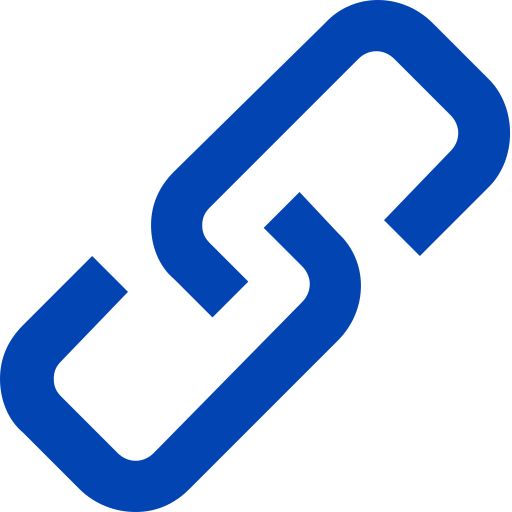
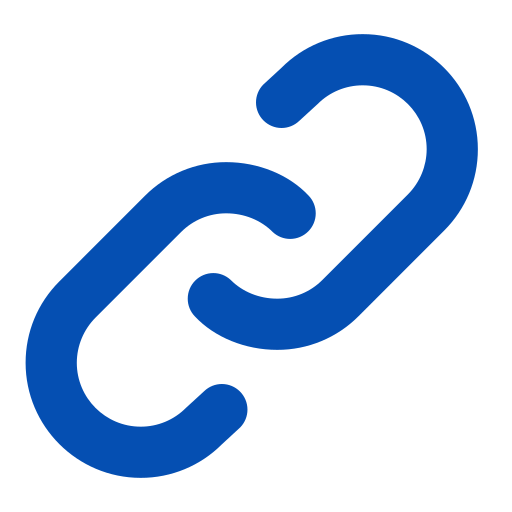
detalhes na implementacao do vincular rfid + adicionar icone de desvincular

diff --git a/gerenciar_controle_ifto/templates/pages/pessoa/listarPessoa.html b/gerenciar_controle_ifto/templates/pages/pessoa/listarPessoa.html
@@ -35,17 +35,20 @@
 
                     <td id="centralize_info">
                             <a href="{% url "editar_Pessoa" pessoa.id%}">
-                                <img src="{% static "images/icones/editar.png" %}" width="16px" alt="">
+                                <img src="{% static "images/icones/editar.png" %}" width="18px" alt="">
                             </a>
                             {% if pessoa.vinculado == False %}
                                 <a href="{% url "vincular_rfid_pessoa" pessoa.id%}">
-                                    <img src="{% static "images/icones/vincular.png" %}" width="16px" alt="">
+                                    <img src="{% static "images/icones/vincular.png" %}" width="18px" alt="">
                                 </a>
                             {% else %}
-                                <img src="" width="16px" alt="">
+                                <img src="" width="18px" alt="">
                             {% endif %}
                             <a href="#">
-                                <img src="{% static "images/icones/excluir.png" %}" width="16px" alt="">
+                                <img src="{% static "images/icones/desvincular.png" %}" width="18px" alt="">
+                            </a>
+                            <a href="#">
+                                <img src="{% static "images/icones/excluir.png" %}" width="18px" alt="">
                             </a>
                     </td>
                 </tr>

diff --git a/gerenciar_controle_ifto/forms.py b/gerenciar_controle_ifto/forms.py
@@ -145,7 +145,7 @@ class EditarCorRfidForm(forms.Form):
 
         if len(corRfid) <=2:
             self.add_error('corRFID',"A cor deve ter mais de 2 caracteres")
-            
+
 class EditarPessoaForm(forms.Form):
     nome = forms.CharField(label="Nome:")
     sobrenome = forms.CharField(label="Sobrenome:")
@@ -223,11 +223,11 @@ class EditarPessoaForm(forms.Form):
 
             if not(cpf_validate.validate(cpf_particionado)):
                 self.add_error('cpf', "CPF informado e invalido")
-                
+
 class VincularPessoaRfid(forms.Form):
-    pessoa= forms.CharField(label="Pessoa:")
+    pessoa= forms.CharField(label="Pessoa:", disabled=True)
     rfid_a_vincular = forms.ModelChoiceField(queryset=Rfid.objects.all(),label="RFID:")
-    
+
     def __init__(self, *args, codCargoID = None ,**kwargs):
         super(VincularPessoaRfid, self).__init__(*args, **kwargs)
 
@@ -238,6 +238,7 @@ class VincularPessoaRfid(forms.Form):
         self.helper.layout = Layout(
             'pessoa',
             'rfid_a_vincular',
+            
             HTML("""<a href="{% url "visualizar_pessoa" %}">
                         <button type='button' class="btn btn-primary", id="botao_voltar">Voltar</button>
                     </a>"""),
@@ -245,9 +246,7 @@ class VincularPessoaRfid(forms.Form):
         )
 
         if codCargoID is not None:
-            print("Is not none :-)")
-            rfid = Rfid.objects.filter(vinculado=False,cod_corRFID_funcao=codCargoID)
-            print("Tem algo: "+str(rfid))
+            rfid = Rfid.objects.filter(cod_corRFID_funcao_id=CorRFID_Funcao.objects.get(cod_cargo_id=codCargoID), vinculado=False)
             self.fields['rfid_a_vincular'].queryset = rfid
             
             

diff --git a/controle_acesso/settings.py b/controle_acesso/settings.py
@@ -81,23 +81,23 @@ WSGI_APPLICATION = 'controle_acesso.wsgi.application'
 # Database
 # https://docs.djangoproject.com/en/5.1/ref/settings/#databases#
 #
-#DATABASES = {
-#    'default': {
-#        'ENGINE': 'django.db.backends.mysql',
-#        'NAME': 'controle_acesso_ifto',
-#        'USER':'rangerti',
-#        'PASSWORD' : 'wrede123',
-#        'HOST':'127.0.0.1',
-#        'PORT': '3306',
-#    }
-#}
-
 DATABASES = {
     'default': {
-        'ENGINE': 'django.db.backends.sqlite3',
-        'NAME': 'db.sqlite3',
+        'ENGINE': 'django.db.backends.mysql',
+        'NAME': 'controle_acesso_ifto',
+        'USER':'rangerti',
+        'PASSWORD' : 'wrede123',
+        'HOST':'127.0.0.1',
+        'PORT': '3306',
     }
 }
+
+#DATABASES = {
+#    'default': {
+#        'ENGINE': 'django.db.backends.sqlite3',
+#        'NAME': 'db.sqlite3',
+#    }
+#}
 # Password validation
 # https://docs.djangoproject.com/en/5.1/ref/settings/#auth-password-validators
 

diff --git a/gerenciar_controle_ifto/view/vincular_rfid.py b/gerenciar_controle_ifto/view/vincular_rfid.py
@@ -11,14 +11,16 @@ def vincularRfid(request, id):
         form = VincularPessoaRfid(request.POST)
         
         if form.is_valid():
+            print("Passou por validar")
             cod_rfid = form.cleaned_data['rfid_a_vincular']
             pessoa.cod_Rfid = cod_rfid
             pessoa.save()
+            print("Pronto :)...  Salvou")
             
             rfid = get_object_or_404(Rfid,id=cod_rfid)
             rfid.vinculado = True
             rfid.save()
-
+            print("Vai redirecionar\n")
             HttpResponseRedirect('/iftoAcess/listar/pessoa/')
 
         context = {
@@ -27,6 +29,7 @@ def vincularRfid(request, id):
             'nome_usuario_logado' : 'Rangerson'
         }
 
+    print("Bora ve se retorn get novamente")
     form = VincularPessoaRfid(
         initial = {
             'pessoa' : ''+pessoa.nome+' '+pessoa.sobrenome+' '+'('+str(pessoa.id)+')'

diff --git a/gerenciar_controle_ifto/models.py b/gerenciar_controle_ifto/models.py
@@ -26,6 +26,9 @@ class Rfid(models.Model):
     ativo = models.BooleanField()
     motivo_desativacao = models.CharField(max_length=30, null=True)
     
+    def __str__(self):
+        return self.tag_rfid_value
+    
     def data_formatada(self):
         if(self.data_desativacao):
             return self.data_desativacao.strftime("%d/%m/%Y, %H:%M")
